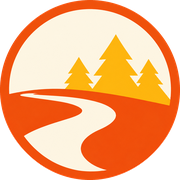
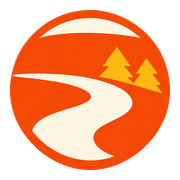
feat(website): follow system color scheme; split coverage note (#10652)
Removes the light/dark toggle on the landing page and the VitePress
appearance switch (`appearance: "force-auto"`); both follow
`prefers-color-scheme` live. Replaces the favicon and apple-touch icon
with the orange trail badge. Trims the coverage footnote into two short
lines and promotes the client-side JavaScript point to its own heading.

## Screenshots

Both rendered with Playwright's `colorScheme` set; no stored preference
is involved. Local dev has no coverage data, so the commit reads `—`
here.

| Light | Dark |
| --- | --- |
| ![nav
light](https://github.com/blazetrailsdev/trails/blob/144a6cc1110ee0aa32e8103c80824df32bb59a17/nav-light.png?raw=true)
| ![nav
dark](https://github.com/blazetrailsdev/trails/blob/144a6cc1110ee0aa32e8103c80824df32bb59a17/nav-dark.png?raw=true)
|
| ![coverage
light](https://github.com/blazetrailsdev/trails/blob/144a6cc1110ee0aa32e8103c80824df32bb59a17/coverage-light.png?raw=true)
| ![coverage
dark](https://github.com/blazetrailsdev/trails/blob/144a6cc1110ee0aa32e8103c80824df32bb59a17/coverage-dark.png?raw=true)
|

diff --git a/packages/website/src/routes/+page.svelte b/packages/website/src/routes/+page.svelte
@@ -17,17 +17,6 @@
   };
   let pm = $state("npm");
   let copied = $state(false);
-  let dark = $state(false);
-  $effect(() => {
-    dark = document.documentElement.classList.contains("dark");
-  });
-  function toggleTheme() {
-    dark = !dark;
-    document.documentElement.classList.toggle("dark", dark);
-    try {
-      localStorage.setItem("vitepress-theme-appearance", dark ? "dark" : "light");
-    } catch {}
-  }
 
   async function copy() {
     try {
@@ -78,7 +67,7 @@
       <span class="wm" aria-hidden="true"><span class="blaze">blaze</span><span class="trails">trails</span></span>
       <span class="sr-only">blazetrails</span>
     </a>
-    <ul class="right">{#each navRight as l}<li><a href={l.href}>{l.label}</a></li>{/each}<li><button class="theme" onclick={toggleTheme} aria-label={dark ? "Switch to light mode" : "Switch to dark mode"}>{dark ? "Light" : "Dark"}</button></li></ul>
+    <ul class="right">{#each navRight as l}<li><a href={l.href}>{l.label}</a></li>{/each}</ul>
   </nav>
 
   <header class="hero">
@@ -118,7 +107,10 @@
     <p class="intro">trails ports the Rails frameworks to TypeScript, one package per framework.</p>
     <ul class="tiles">{#each tiles as t}<li><a href="{base}/docs/packages/{t}"><span>{t}</span>{#if data.coverage[t] && data.coverage[t] !== "—"}<small>{data.coverage[t]} of the {railsGems.has(t) ? "Rails" : "Ruby gem"} API</small>{/if}</a></li>{/each}</ul>
     <p class="small"><strong>And more.</strong> We&rsquo;re bringing all the friends along.</p>
-    <p class="fine">Each percentage is the share of the upstream gem's public API names (classes, modules, methods and constants) that have a matching name in the trails package. &ldquo;Rails API&rdquo; marks a gem the Rails project owns, such as Active Record, Solid Queue or thor; &ldquo;Ruby gem API&rdquo; marks one of the other gems Rails depends on, such as rack or i18n. &ldquo;Measured at {data.measuredAt}&rdquo; names the trails commit the figures were computed on. A trails app's client-side JavaScript, Turbo and Stimulus included, uses these same packages, so the code in the browser and on the server is all compatible.</p>
+    <p class="fine">Percentages count the upstream gem&rsquo;s public classes, modules, methods and constants that trails matches by name, measured at {data.measuredAt}.</p>
+    <p class="fine"><strong>Rails API:</strong> gems the Rails project owns, like Active Record or Solid Queue. <strong>Ruby gem API:</strong> gems Rails depends on, like rack or i18n.</p>
+    <h3 class="browser">The same code in the browser.</h3>
+    <p class="small">A trails app&rsquo;s client-side JavaScript, Turbo and Stimulus included, runs on these same packages. Browser and server share one codebase.</p>
   </section>
 
   <section class="band">
@@ -230,6 +222,7 @@
   .tabs button[aria-selected="true"] { background: #3a2a1f; color: #fff; box-shadow: inset 0 3px 0 var(--orange); margin-bottom: -1px; padding-bottom: 12px; }
   .note { margin: 0; padding: 0 22px 22px; font-size: 15px; color: #d9c6b0; }
   .sr-only { position: absolute; width: 1px; height: 1px; padding: 0; margin: -1px; overflow: hidden; clip: rect(0 0 0 0); white-space: nowrap; border: 0; }
+  .browser { font-size: 40px; line-height: 1.1; color: var(--orange); font-weight: 800; letter-spacing: -0.02em; margin: 3rem auto 0; }
   .fine { font-size: 15px; line-height: 1.45; max-width: 760px; margin: 1.5rem auto 0; color: var(--bt-muted); }
   .pane { background: #3a2a1f; min-height: 380px; }
   .split { display: grid; grid-template-columns: minmax(0, 1.25fr) minmax(0, 1fr); }
@@ -278,7 +271,6 @@
   .pms button[aria-pressed="true"] { background: var(--ink); color: #fff; }
   :global(html.dark) .pms button[aria-pressed="true"], :global(html.dark) .cmd { background: var(--bt-code-bg); }
   :global(html.dark) .copy { background: var(--bt-code-bar); }
-  .theme { font: inherit; color: inherit; background: none; border: 0; padding: 0; text-decoration: underline; text-underline-offset: 3px; cursor: pointer; }
   .cmd { display: flex; align-items: center; gap: 16px; background: var(--ink); color: #fbf1e4; border-radius: 0 8px 8px 8px; padding: 18px 20px; }
   .cmd code { flex: 1; font: 16px var(--mono); color: #fbf1e4; background: none; border: 0; padding: 0; overflow-x: auto; white-space: nowrap; }
   .prompt { color: var(--mango); margin-right: 6px; }

diff --git a/packages/website/src/app.html b/packages/website/src/app.html
@@ -8,14 +8,10 @@
     <link rel="apple-touch-icon" href="%sveltekit.assets%/apple-touch-icon.png" />
     <script>
       (() => {
-        let pref = "auto";
-        try {
-          pref = localStorage.getItem("vitepress-theme-appearance") || "auto";
-        } catch {}
-        const dark =
-          pref === "dark" ||
-          (pref === "auto" && matchMedia("(prefers-color-scheme: dark)").matches);
-        document.documentElement.classList.toggle("dark", dark);
+        const mq = matchMedia("(prefers-color-scheme: dark)");
+        const apply = () => document.documentElement.classList.toggle("dark", mq.matches);
+        apply();
+        mq.addEventListener("change", apply);
       })();
     </script>
     %sveltekit.head%

diff --git a/packages/website/docs/.vitepress/config.ts b/packages/website/docs/.vitepress/config.ts
@@ -27,6 +27,7 @@ export default defineConfig({
     ["link", { rel: "icon", href: `${siteBase}/favicon.png`, type: "image/png" }],
     ["link", { rel: "apple-touch-icon", href: `${siteBase}/apple-touch-icon.png` }],
   ],
+  appearance: "force-auto",
   markdown: { theme: "github-dark" },
 
   themeConfig: {
